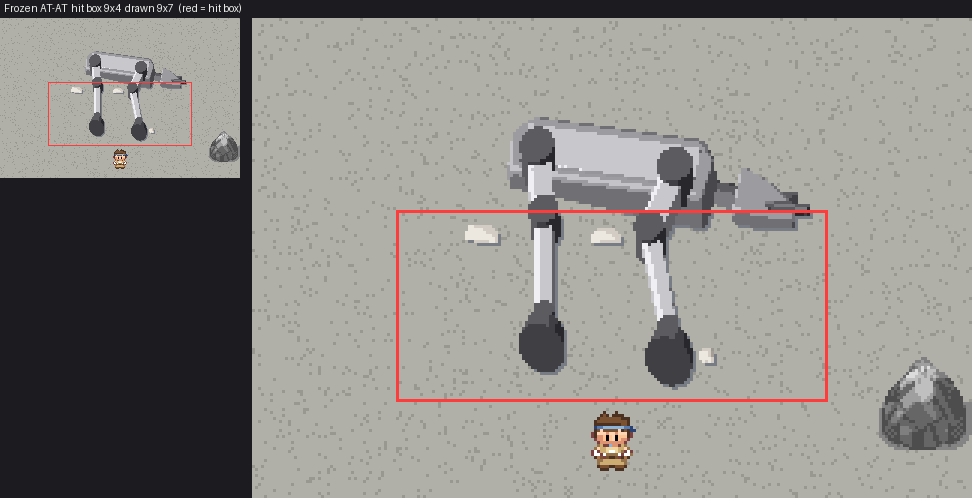
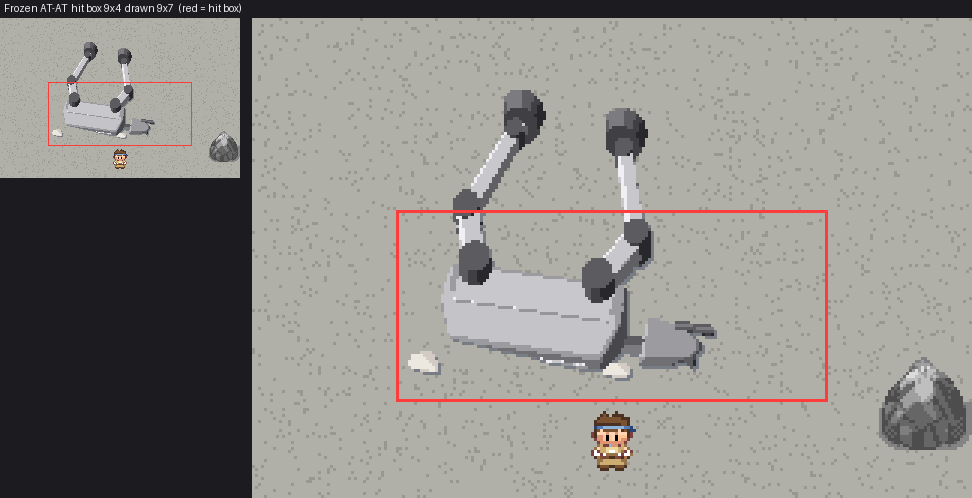
world-art scenery: AT-AT toppled fits its hit box, sunk variant; ring generator, Tatooine kit; new models: abandoned homestead, sunk tank droid, crashed frigate (3 variants each)

Changed region(s): [[0.4321, 0.1807, 0.8333, 0.7831], [0.0617, 0.0904, 0.1852, 0.3012], [0.4012, 0.6928, 0.463, 0.753]]

diff --git a/tools/world-art/worldart/model.py b/tools/world-art/worldart/model.py
@@ -405,7 +405,36 @@ def gen_limb(g, rng):
     return out
 
 
-GENERATORS = {"limb": gen_limb, "scatter": gen_scatter, "branches": gen_branches, "tiers": gen_tiers, "lobes": gen_lobes}
+def gen_ring(g, rng):
+    """`n` blocks evenly round a circle: wheel treads, hull ribs, a skeleton's rib arc, a crown of spikes.
+    c: [x, y, z] centre;  axis: x|y|z (or [ax, ay, az]) the circle's axis;  r: radius to the block centres
+    size: [along the circle, out from the centre, along the axis] full sizes of one block
+    n: count;  arc: [deg0, deg1] the part of the circle to fill (default all);  start: deg offset
+    round: edge bevel.  Parts are named <name>/0, <name>/1, ..."""
+    c = np.asarray(g["c"], float)
+    ax = g.get("axis", "z")
+    ax = np.asarray({"x": [1, 0, 0], "y": [0, 1, 0], "z": [0, 0, 1]}.get(ax, ax) if isinstance(ax, str) else ax, float)
+    ax /= np.linalg.norm(ax)
+    ref = np.array([0, 0, 1.0]) if abs(ax[2]) < 0.9 else np.array([1.0, 0, 0])
+    u = np.cross(ax, ref); u /= np.linalg.norm(u)
+    v = np.cross(ax, u)
+    n, R = int(g["n"]), float(g["r"])
+    a0, a1 = (float(t) for t in g.get("arc", [0, 360]))
+    full = abs((a1 - a0) % 360) < 1e-6
+    sa, sr, sx = (float(t) / 2 for t in g["size"])
+    out = []
+    for i in range(n):
+        t = math.radians(float(g.get("start", 0)) + a0 + (a1 - a0) * (i / n if full else i / max(n - 1, 1)))
+        rad = math.cos(t) * u + math.sin(t) * v
+        tan = np.cross(ax, rad)
+        p = c + rad * R
+        pts = [p + da * tan * sa + dr * rad * sr + dx * ax * sx for da in (-1, 1) for dr in (-1, 1) for dx in (-1, 1)]
+        out.append({"name": f"{g.get('name', 'ring')}/{i}", "mat": g.get("mat"), "group": g.get("group", "body"),
+                    "hull": {"points": np.round(pts, 4).tolist(), "round": float(g.get("round", 0.02))}})
+    return out
+
+
+GENERATORS = {"ring": gen_ring, "limb": gen_limb, "scatter": gen_scatter, "branches": gen_branches, "tiers": gen_tiers, "lobes": gen_lobes}
 
 
 def expand_parts(specs, seed):

diff --git a/tools/world-art/worldart/scenery.py b/tools/world-art/worldart/scenery.py
@@ -171,7 +171,8 @@ def _override(raw, key, value):
     ks = key.split(".")
     for k in ks[:-1]:
         d = d.setdefault(k, {})
-    d[ks[-1]] = yaml.safe_load(value) if isinstance(value, str) else value
+    v = yaml.safe_load(value) if isinstance(value, str) else value
+    d[ks[-1]] = M.deep_merge(d[ks[-1]], v) if isinstance(v, dict) and isinstance(d.get(ks[-1]), dict) else v
     return raw
 
 
@@ -179,7 +180,7 @@ def sweep(name, spec, only=None, tries=()):
     """One key over several values, every chosen variant: a contact sheet to pick from."""
     path = os.path.join(MODELS, f"{name}.yaml")
     key, vals = spec.split("=", 1)
-    vals = [v.strip() for v in vals.split(",")]
+    vals = [v.strip() for v in vals.split(";" if ";" in vals else ",")]   # ";" when a value has commas
     shots = []
     for vn, raw in variants_of(path):
         if only and vn not in only:
@@ -187,7 +188,7 @@ def sweep(name, spec, only=None, tries=()):
         for t in tries:
             raw = _override(raw, *t.split("=", 1))
         for v in vals:
-            obj = M.Object(path, _override(raw, key, v))
+            obj = M.Object(path, _override(raw, key, v))   # a dict value merges (params)
             img, ind, _ = R.render_object(obj)
             cut = clipped(img)
             label = f"{vn} {key}={v}" + (f"  CUT {'/'.join(cut)}" if cut else "")

diff --git a/tools/world-art/README.md b/tools/world-art/README.md
@@ -81,10 +81,14 @@ then rendered by the Emerald camera into a grey sprite. Grey only: no colour, ou
 - **`limb`**: a jointed leg or arm from low-poly boxes: `{root, yaw, splay, segments: [{len, w, d, bend,
   taper, joint: {r}}], foot: {r, h, flat}}`. Each `bend` is added to the last, so a knee is a bend. The
   AT-AT leg in the walker kit is one.
+- **`ring`**: `n` blocks evenly round a circle (`c`, `axis`, `r`, `size`, `arc`): wheel treads, hull
+  ribs, a skeleton's rib arc. The tank droid's tread is one.
+- **Kits so far:** `kits/walkers.yaml` (the AT-AT leg), `kits/tatooine.yaml` (the moisture vaporator).
 - **Variants**: `variants: {name: {overrides}}` makes one model many outputs. Each variant is merged over
   the model: `params` key by key, any other key replaced (`tilt`, `turn`, `sink`, `scale`, `foot`,
   `ground`), and `drop: ["leg-br/*", "head/*"]` leaves parts out by name. The first variant is the one the
-  wiki row shows. The AT-AT has five: toppled, toppled-three-legs, toppled-headless, standing, kneeling.
+  wiki row shows. The AT-AT has five: toppled (on its side, legs up in the air behind it), toppled-three-legs,
+  toppled-headless, standing, sunk (through the lake ice).
 
 ```bash
 python3 -m worldart scenery hoth_frozen-at-at    # render one (or several, or --all), every variant
@@ -92,6 +96,8 @@ python3 -m worldart scenery hoth_frozen-at-at --variant toppled --try turn=10 --
                                                  # one variant with tweaks, to output/ only
 python3 -m worldart scenery hoth_frozen-at-at --variant toppled --sweep "turn=-12,0,12"
                                                  # each value side by side: output/scenery/<id>/sweep.png
+python3 -m worldart scenery hoth_frozen-at-at --sweep 'params={fknee: 20};{fknee: 60}'
+                                                 # use ";" between values that hold commas; a dict merges
 python3 -m worldart scenery --status             # every scenery row's model status
 python3 -m worldart scenery --set art:hoth:frozen-at-at APPROVED
 ```
